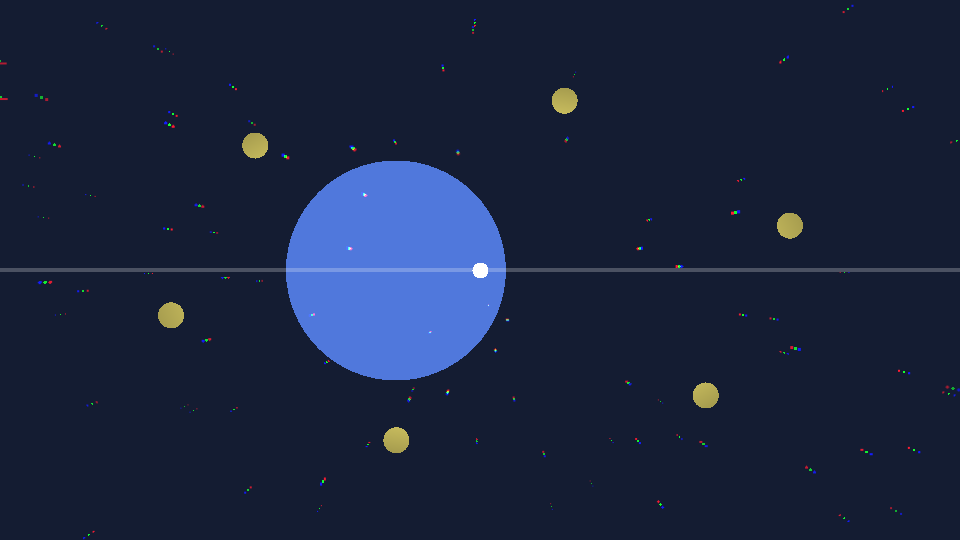
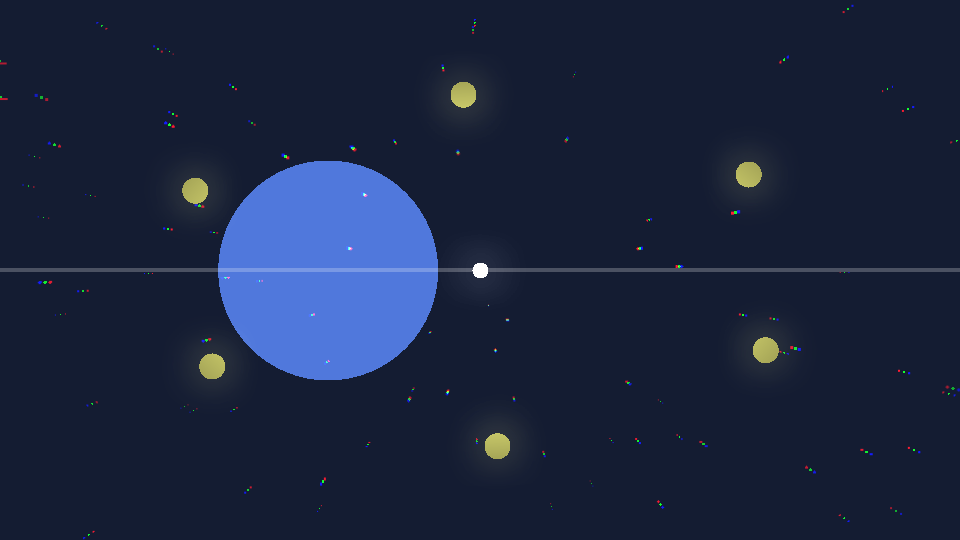
docs(Examples): RenderGraphCompose の Overlay を Bloom + Vignette にして「光源だけ Bloom」を絵にする (#948)
冒頭の前文は RenderGraph の価値を「光源だけ Bloom させたい、UI には
Bloom を効かせたくない — addPostEffect では不可能」と謳っているのに、
サンプル自身は Overlay の脚に単パスの VignetteEffect しか置いておらず、
売り文句が絵になっていなかった。多パスを避けていた理由（描画が崩れる）は
#833 / PR #945 で撤回済みで、避ける根拠はもう無い。

Overlay の脚を [BloomEffect(1.4, 0.5), VignetteEffect(1.0, 0.5)] のチェーンに
する。Bloom 単体に置き換えず Vignette を残したのは、1 つの EffectPass に
**多パス + 単パス**を並べられることも同時に示せるため。

絵と文の両方を動かす:

- Overlay の脚を 2 段のチェーンへ（変数名も vignetteOverlay → glowOverlay）
- 構造図の `EffectPass (Vignette)` の箱を `(Bloom→Vignette)` へ
- 「このサンプルでの可視化」に、Overlay の光点だけがにじみ隣の Scene の
  青い円はにじまないこと（＝冒頭 1. がそのまま形になること）と、
  多パス + 単パスを連ねていることを追記
- 二段目マージ（.alpha）の説明を Bloom のグロウ込みに書き直す
- draw() 側の Vignette 前提の注記に Bloom を足す

実行結果画像は make example-shots ARGS="--only Examples/Samples/RenderGraphCompose --force"
で撮り直した（sourceHash 0ff5f725… → 454eb710…）。撮り直した絵では
Overlay の光点にだけ柔らかいグロウが乗り、すぐ隣にある Scene の青い円は
輪郭が鋭いまま＝ DAG が層を分離できていることが絵で読み取れる。
make examples-index は差分ゼロ（KEYWORD_TAGS に bloom 系の needle が無い）。

確認方法:
- make ci-check（build + test 2009 件 green）
- cd Examples/Samples/RenderGraphCompose && swift build && swift run
- 撮り直した RenderGraphCompose.png を目視（PR 本文に before/after）

Assisted-by: Claude <noreply@anthropic.com>

diff --git a/Examples/Samples/RenderGraphCompose/RenderGraphCompose/App.swift b/Examples/Samples/RenderGraphCompose/RenderGraphCompose/App.swift
@@ -61,7 +61,7 @@ final class GraphicsNode: RenderPassNode {
 //         ▼                  │                    ▼
 //   ┌────────────┐           │             ┌──────────────────┐
 //   │ EffectPass │           │             │ EffectPass       │
-//   │ (色収差)   │           │             │ (Vignette)       │
+//   │ (色収差)   │           │             │ (Bloom→Vignette) │
 //   └─────┬──────┘           │             └────────┬─────────┘
 //         │                  │                      │
 //         └─► MergePass(.add) ◄─┘                   │
@@ -75,8 +75,12 @@ final class GraphicsNode: RenderPassNode {
 //
 // このサンプルでの可視化:
 //   - 3つのソースを **完全に独立** して描画している。
-//   - Vignette は Overlay だけ、ChromaticAberration は Stars だけにかかる。
-//     Scene の青い円にはどちらも作用しない（DAG が要素を分離している証拠）。
+//   - Bloom → Vignette は Overlay だけ、ChromaticAberration は Stars だけにかかる。
+//     Overlay の光点だけがにじみ、すぐ隣にある Scene の青い円はまったく
+//     にじまない（DAG が要素を分離している証拠）。画面全体に効く addPostEffect
+//     では書けない絵で、冒頭 1. の「光源だけ Bloom させたい」がそのまま形になる。
+//   - 1つの EffectPass に **多パス + 単パスを連ねている**。Bloom は中間テクスチャを
+//     複数使う多パス、Vignette は単パス。チェーンの中では同じように並べられる。
 //   - 二段マージで **ブレンドモードを使い分けている**。背景と星は加算 (.add)、
 //     その上にオーバーレイをアルファ合成 (.alpha) で乗せる。
 //
@@ -153,17 +157,22 @@ final class RenderGraphCompose: Sketch {
             fatalError("createEffectPass(stars) に失敗")
         }
 
-        // 5. Overlay に強めの Vignette を適用
+        // 5. Overlay に Bloom → Vignette のチェーンを適用
         //
-        // パラメータを強くして、軌道点が画面端に近づくと
-        // 明らかに暗くなる/明るくなるのが見えるように。
+        // Bloom で光点のまわりにグロウを出し、そのあと Vignette で周辺を減光する。
+        // どちらも **Overlay の脚にしか掛からない** ので、すぐ隣に描かれている
+        // Scene の青い円は一切にじまず、明るさも変わらない。冒頭 1. で挙げた
+        // 「光源だけ Bloom させたい、ほかには効かせたくない」がそのまま絵になる。
         //
-        // ここでは単パスの Vignette を選んでいるが、単パスに限る必要は無い。
-        // Bloom や大半径 Blur のように複数の中間テクスチャを使う多パス
-        // エフェクトも、EffectPass 経由 + Graphics 入力でそのまま置ける（#833）。
-        guard let vignetteOverlay = createEffectPass(
+        // Bloom は中間テクスチャを複数使う多パスエフェクトだが、EffectPass 経由 +
+        // Graphics 入力でそのまま置ける（#833）。単パスの Vignette と混ぜて
+        // 1 本のチェーンにできるので、多パスと単パスの両方をここで見せている。
+        guard let glowOverlay = createEffectPass(
             overlayNode,
-            effects: [VignetteEffect(intensity: 1.0, smoothness: 0.5)]
+            effects: [
+                BloomEffect(intensity: 1.4, threshold: 0.5),
+                VignetteEffect(intensity: 1.0, smoothness: 0.5),
+            ]
         ) else {
             fatalError("createEffectPass(overlay) に失敗")
         }
@@ -178,12 +187,12 @@ final class RenderGraphCompose: Sketch {
         // 7. 二段目マージ: 背景レイヤーの上に Overlay を **アルファ合成**
         //
         // .alpha (B over A) を使うことで、Overlay の不透明な点は背景に
-        // 「上書き」される。これにより Vignette の明暗変化が点の見た目に
-        // ダイレクトに反映され、画面端で点が露骨に暗くなる/中央付近で
-        // ひときわ明るく見えるという差がはっきり可視化される。
+        // 「上書き」される。これにより Bloom のグロウと Vignette の明暗変化が
+        // 点の見た目にダイレクトに反映され、中央付近の点はにじみながらひときわ
+        // 明るく、画面端の点は露骨に暗くなるという差がはっきり可視化される。
         // .add のままだと背景に足し込まれるので減光が見えにくい。
         guard let composite = createMergePass(
-            bgWithStars, vignetteOverlay, blend: .alpha
+            bgWithStars, glowOverlay, blend: .alpha
         ) else {
             fatalError("createMergePass(overlay) に失敗")
         }
@@ -209,13 +218,14 @@ final class RenderGraphCompose: Sketch {
         pgScene.endDraw()
 
         // ======== Overlay パス ========
-        // 透明背景の上に小さな高輝度点を配置。Vignette で周辺減光される。
+        // 透明背景の上に小さな高輝度点を配置。Bloom でにじみ、Vignette で周辺減光される。
         pgOverlay.beginDraw()
         pgOverlay.background(0, 0, 0, 0)
         pgOverlay.noStroke()
         pgOverlay.fill(255, 240, 120)
         // 軌道は広めにとって、画面端まで届くようにする。
         // Vignette で外周は明らかに暗く、中央付近は明るく見える。
+        // Bloom の閾値 (0.5) を超えるので、点のまわりには薄いグロウが乗る。
         let count = 6
         for i in 0..<count {
             let a = t * 1.4 + Float(i) * (.pi * 2 / Float(count))
@@ -224,7 +234,7 @@ final class RenderGraphCompose: Sketch {
             let y = cy + sin(a) * r * 0.55
             pgOverlay.circle(x, y, 26)
         }
-        // 中央のひときわ明るい点（Vignette のピーク = 100% で見える）
+        // 中央のひときわ明るい点（Vignette のピーク = 100% で、Bloom のグロウも最も濃い）
         pgOverlay.fill(255, 255, 255)
         pgOverlay.circle(cx, cy, 16)
         pgOverlay.endDraw()
